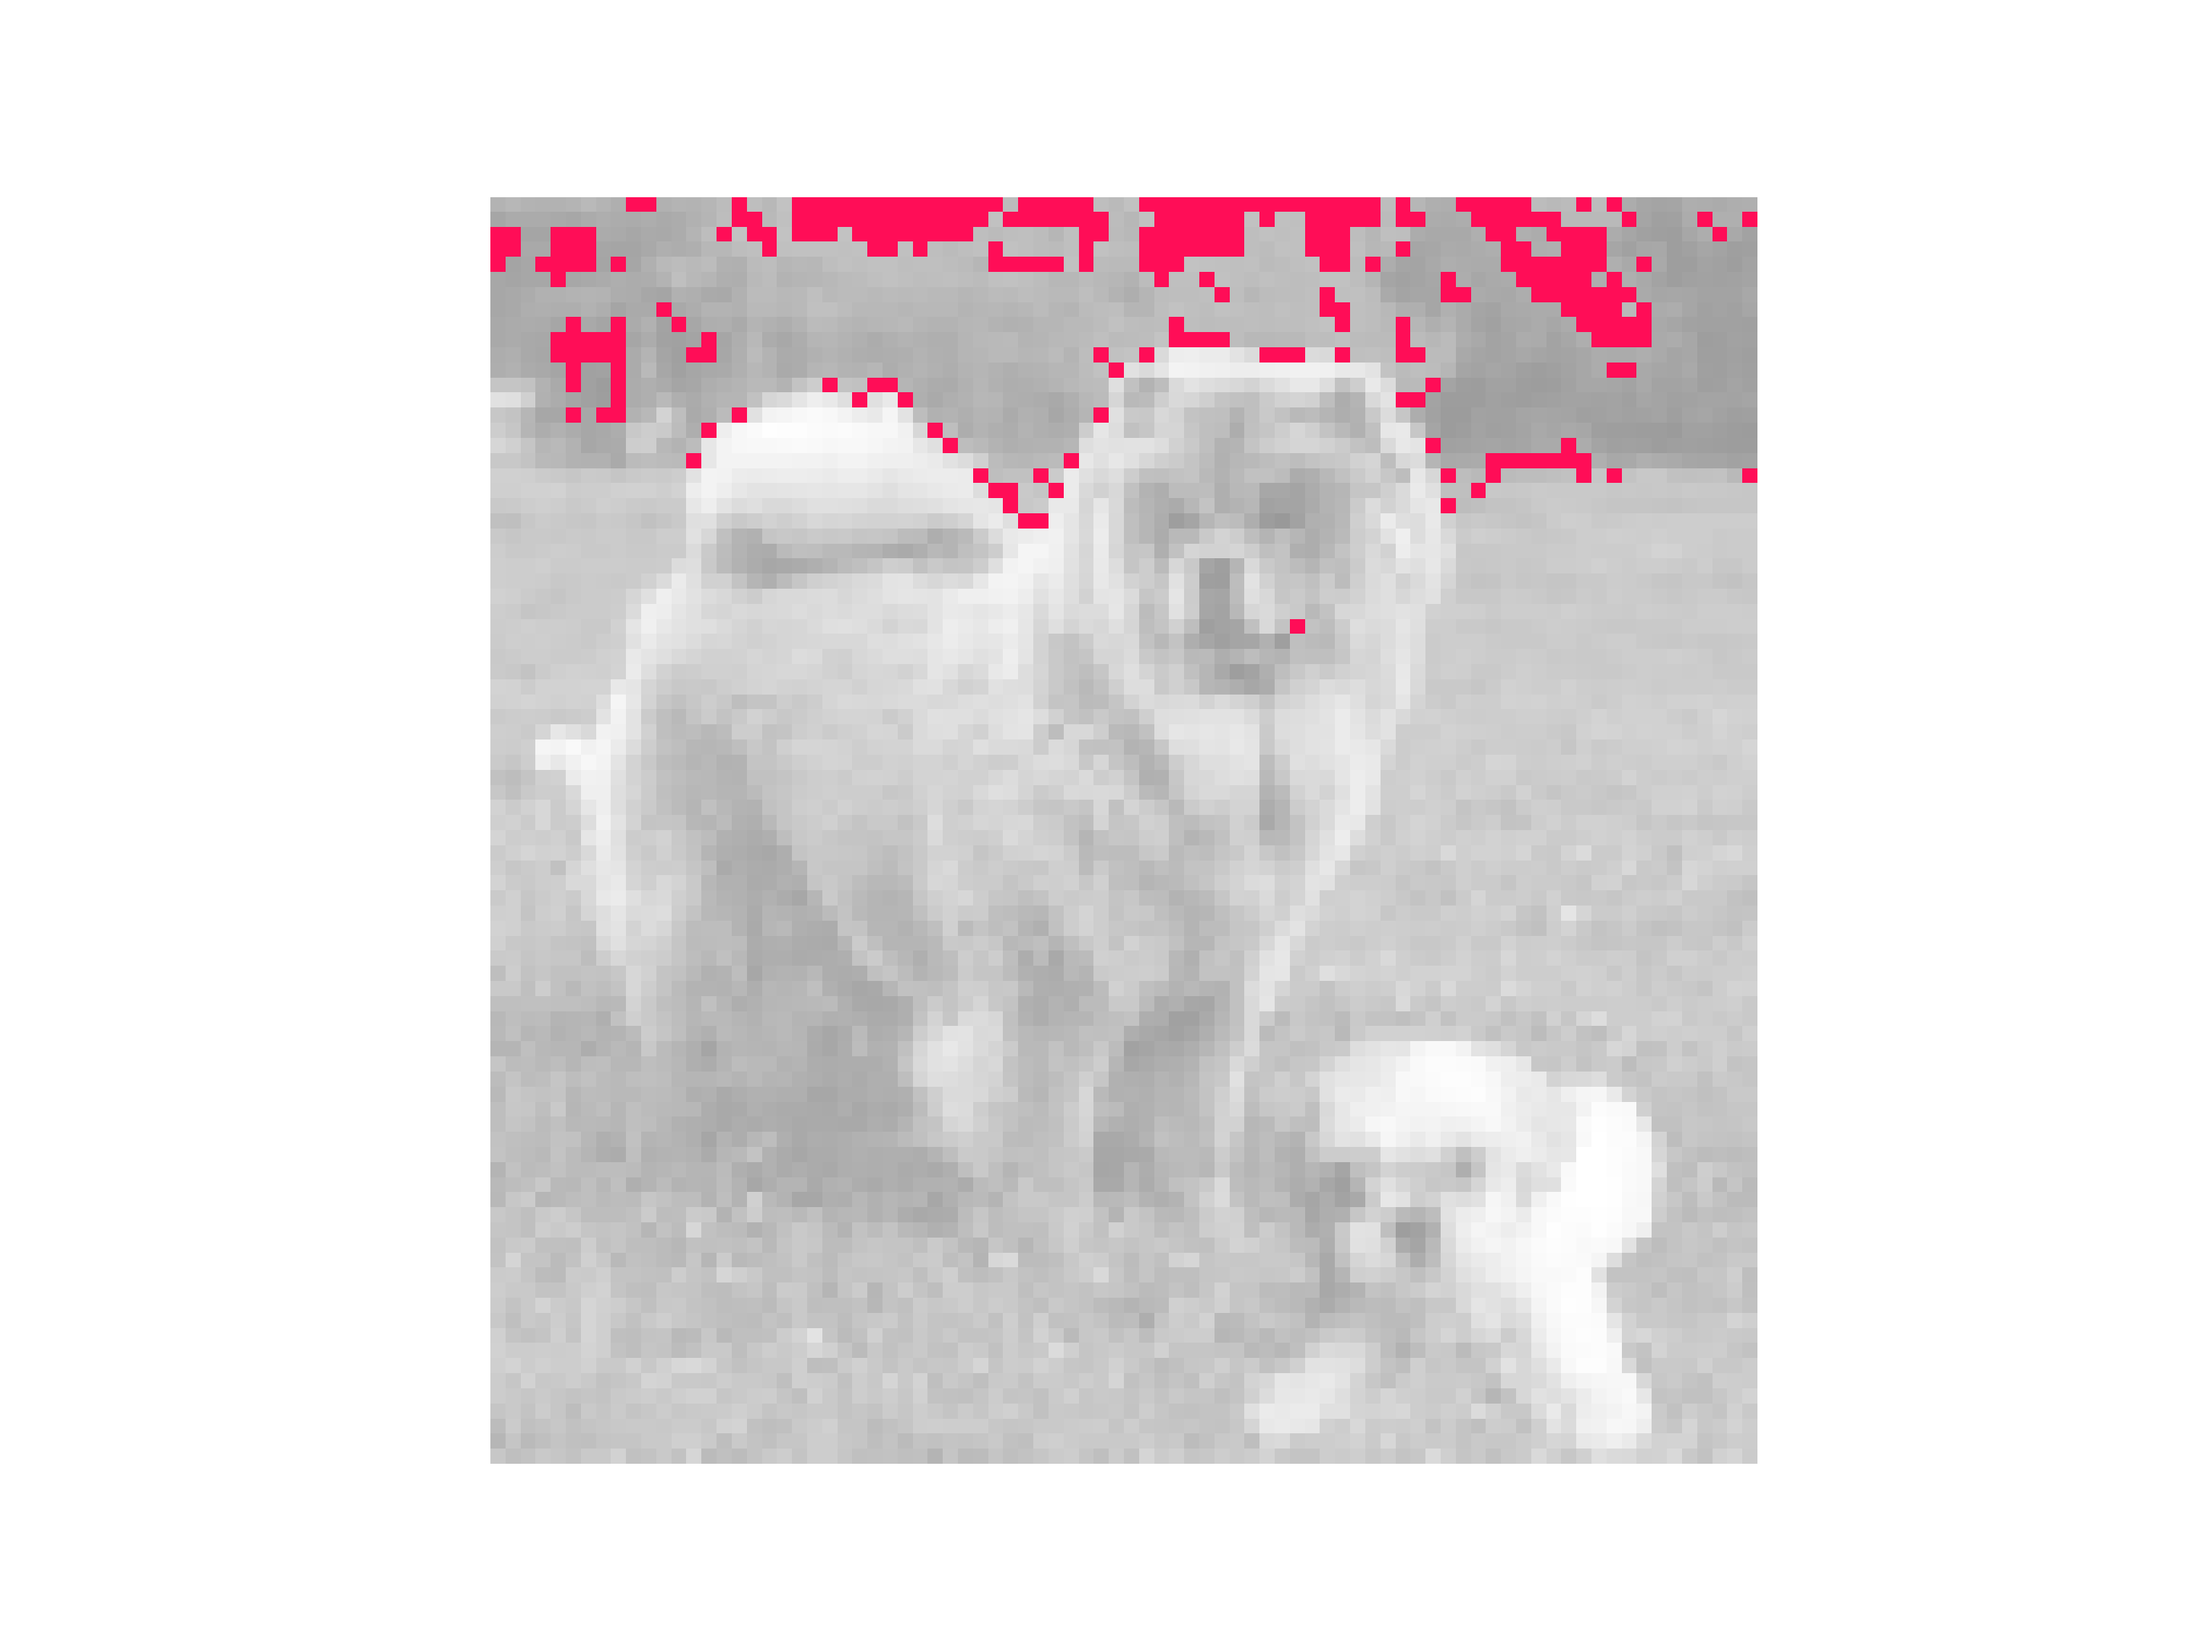
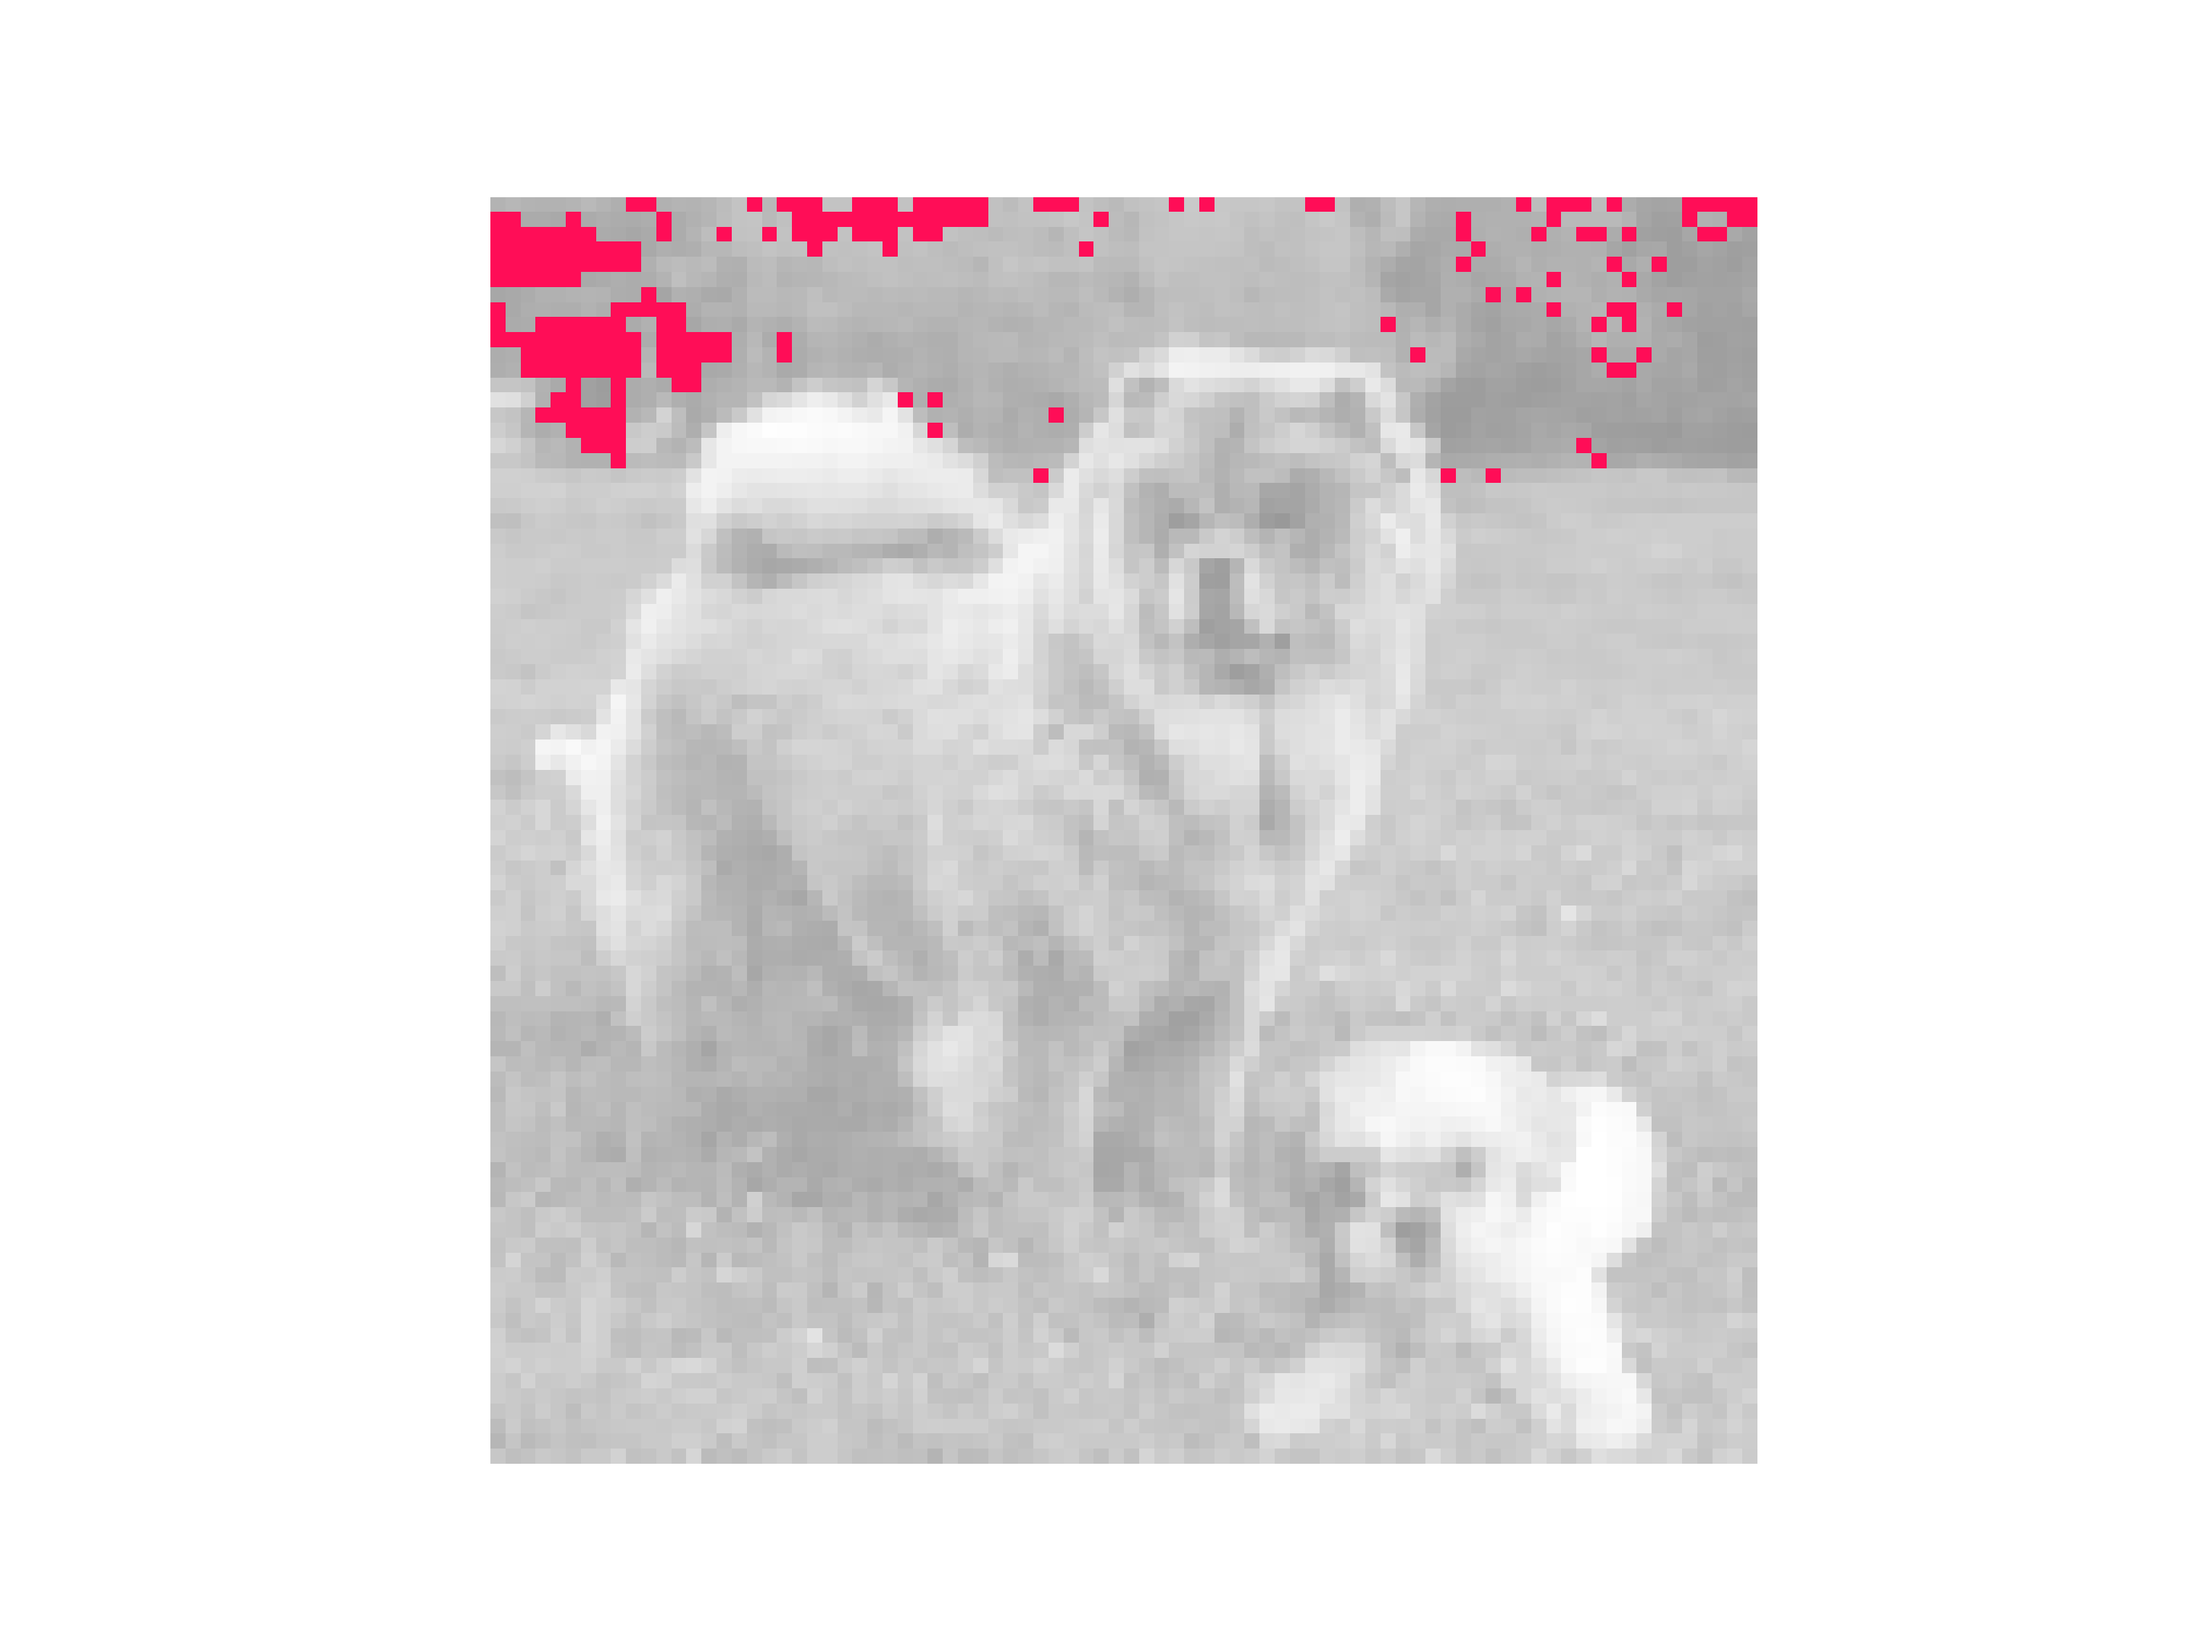
NEW.

diff --git a/architectures/c3a.py b/architectures/c3a.py
@@ -144,7 +144,7 @@ class C3Amodel:
 
     def image_feature_attribution_c3a(self, support_data_1, support_data_2,
                                       support_data_3,
-                                      query, ref_pixel, pad=8, alpha=0.5, progress_bar=True):
+                                      query, ref_pixel, pad=6, alpha=0.5, progress_bar=True):
         rows = np.shape(query)[1]
         cols = np.shape(query)[2]
         chnls = np.shape(query)[3]

diff --git a/testbed/miniImagenet_dogs_cars_birds.py b/testbed/miniImagenet_dogs_cars_birds.py
@@ -111,7 +111,7 @@ def print_dict_info(dictionary):
 if __name__ == '__main__':
 
     ### This few-shot XAI framwork need you to specify shot number.
-    shot = 1
+    shot = 5
     dataset_str = 'dogs'
     ### In our experiments, we only focus on Conv64F and ResNet12 backbone.
     input_model_str = 'Conv64F'
